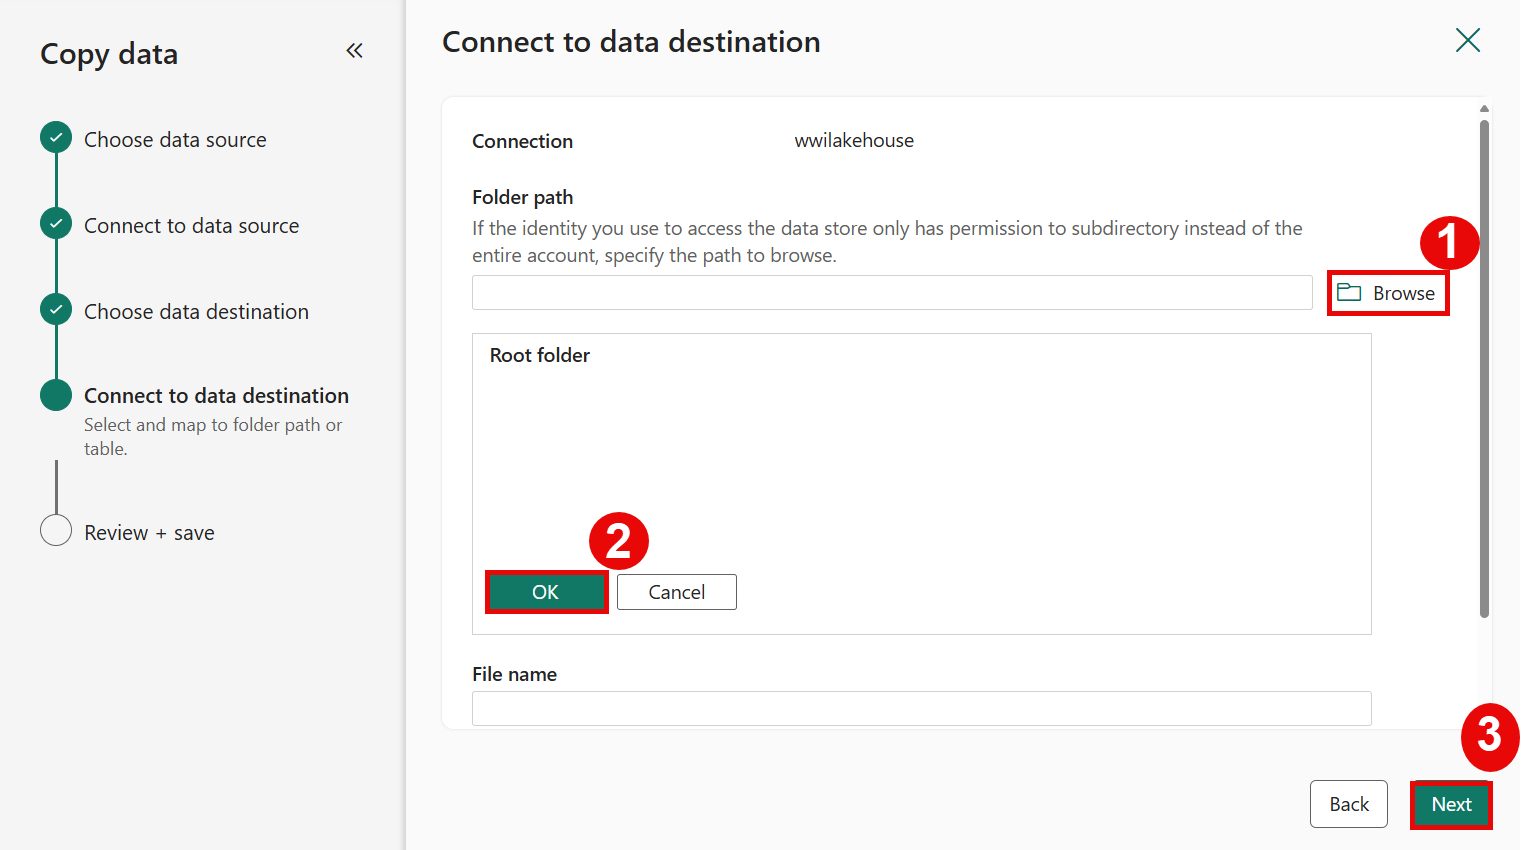
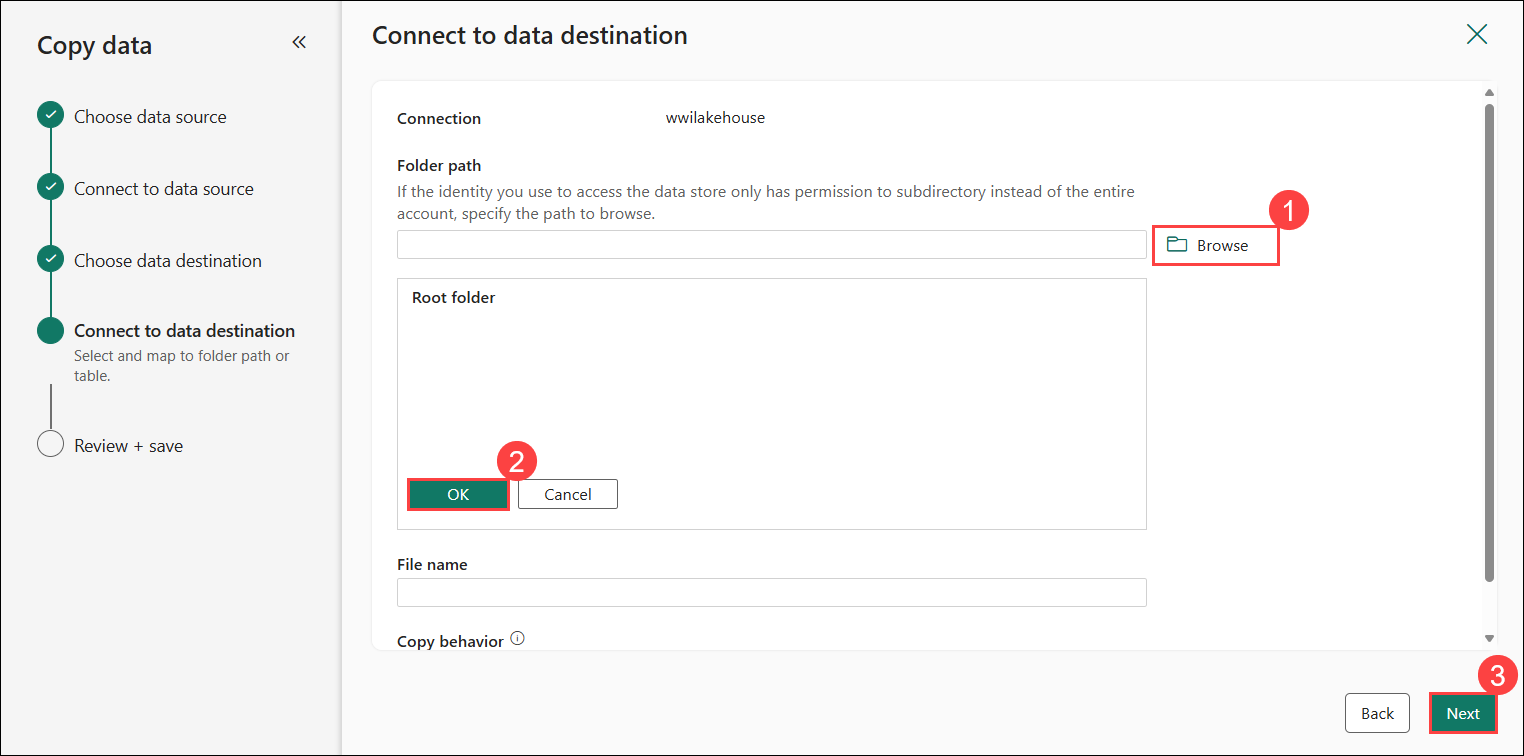
changed_screenshot

diff --git a/masterdoc/09.md b/masterdoc/09.md
@@ -1,17 +1,18 @@
 # Exercise 2: Build a lakehouse
 
-##### **Estimated Duration: 120 minutes**
+### Estimated Duration: 120 Minutes
 
 ## Overview
 
 In this exercise, you will activate SharePoint Online to enable cloud-based collaboration and storage services for the required tasks. You will create a lakehouse in Microsoft Fabric, which serves as a centralized repository for both structured and unstructured data. Then, you will ingest sample data into the lakehouse to prepare it for analysis using the Delta table format. Afterwards, you will build and save a report using Power BI to visualize insights from the ingested data. Finally, you will utilize Microsoft Fabric’s integration to perform end-to-end data workflows, demonstrating the combination of data engineering, analytics, and reporting in a single platform.
 
 ## Lab objectives
-
+Create a workspace
 - Task 1: Activate SharePoint Online
-- Task 2: Create a lakehouse
-- Task 3: Ingest sample data
-- Task 4: Build a report
+- Task 2: Create a workspace
+- Task 3: Create a lakehouse
+- Task 4: Ingest sample data
+- Task 5: Build a report
 
 ## Task 1: Activate SharePoint Online
 
@@ -35,7 +36,36 @@ In this exercise, you will activate SharePoint Online to enable cloud-based coll
 
 1. You can now close this tab and proceed to the next task.
 
-## Task 2: Create a lakehouse
+## Task 2: Create a workspace
+
+**Objective:** You will create a Fabric workspace. The workspace contains all the items needed for this lakehouse tutorial, which includes lakehouse, dataflows, Data Factory pipelines, notebooks, Power BI datasets, and reports.
+
+1. Now, select **Workspaces (1)** and click on **+ New workspace (2)**.
+
+   ![New Workspace](../media/08/11.png) 
+
+2. Fill out the **Create a workspace** form with the following details:
+
+   - **Name:** Enter **Fabric Lakehouse Tutorial** **<inject key="DeploymentID" enableCopy="false" />** **(1)**, and any extra characters to make the name unique.
+
+   - **Description:** Enter **Lakehouse Demo (2)**
+
+      ![name-and-desc-of-workspc](../media/08/12.png) 
+
+4. Select Advanced, expand it, and Under **License mode**, select **Trial capacity (1)** and click on **Apply (2)** to create and open the workspace.
+
+   ![advanced-and-apply](../media/08/13.png)
+
+5. A new workspace titled **Fabric Lakehouse Tutorial** **<inject key="DeploymentID" enableCopy="false" />** will be created. This workspace will serve as a designated area where you can organize and manage your project components, data, and reports, providing a centralized hub for all related activities and resources.
+
+   > **Congratulations** on completing the task! Now, it's time to validate it. Here are the steps:
+   > - If you receive a success message, you can proceed to the next task.
+   > - If not, carefully read the error message and retry the step, following the instructions in the lab guide. 
+   > - If you need any assistance, please contact us at cloudlabs-support@spektrasystems.com. We are available 24/7 to help you out.
+ 
+   <validation step="e075f8d4-19b3-4992-9f58-df7a6b94d338" />
+
+## Task 3: Create a lakehouse
 
 **Objective:** Create a lakehouse within Microsoft Fabric to manage and analyze data.
 
@@ -56,7 +86,7 @@ In this exercise, you will activate SharePoint Online to enable cloud-based coll
  
    <validation step="98c90546-5680-4978-b3ae-eb32a2422fdc" />
 
-## Task 3: Ingest sample data
+## Task 4: Ingest sample data
 
 **Objective:** Load sample data into the lakehouse for processing and analysis.
 
@@ -172,7 +202,7 @@ In this exercise, you will activate SharePoint Online to enable cloud-based coll
 
     ![view-sql-query-results](../media/09/26.png)
 
-## Task 4: Build a report
+## Task 5: Build a report
 
 **Objective:** Create a report using Power BI based on the ingested data.
 

diff --git a/masterdoc/10.md b/masterdoc/10.md
@@ -1,6 +1,6 @@
 # Exercise 3: Ingest data into the lakehouse
 
-##### **Estimated Duration: 60 minutes**
+### Estimated Duration: 60 Minutes
 
 ## Overview
 

diff --git a/masterdoc/08.md b/masterdoc/08.md
@@ -1,6 +1,6 @@
 # Exercise 1: Create a Fabric workspace
 
-##### **Estimated Duration: 60 minutes**
+### Estimated Duration: 60 Minutes
 
 ## Overview
 
